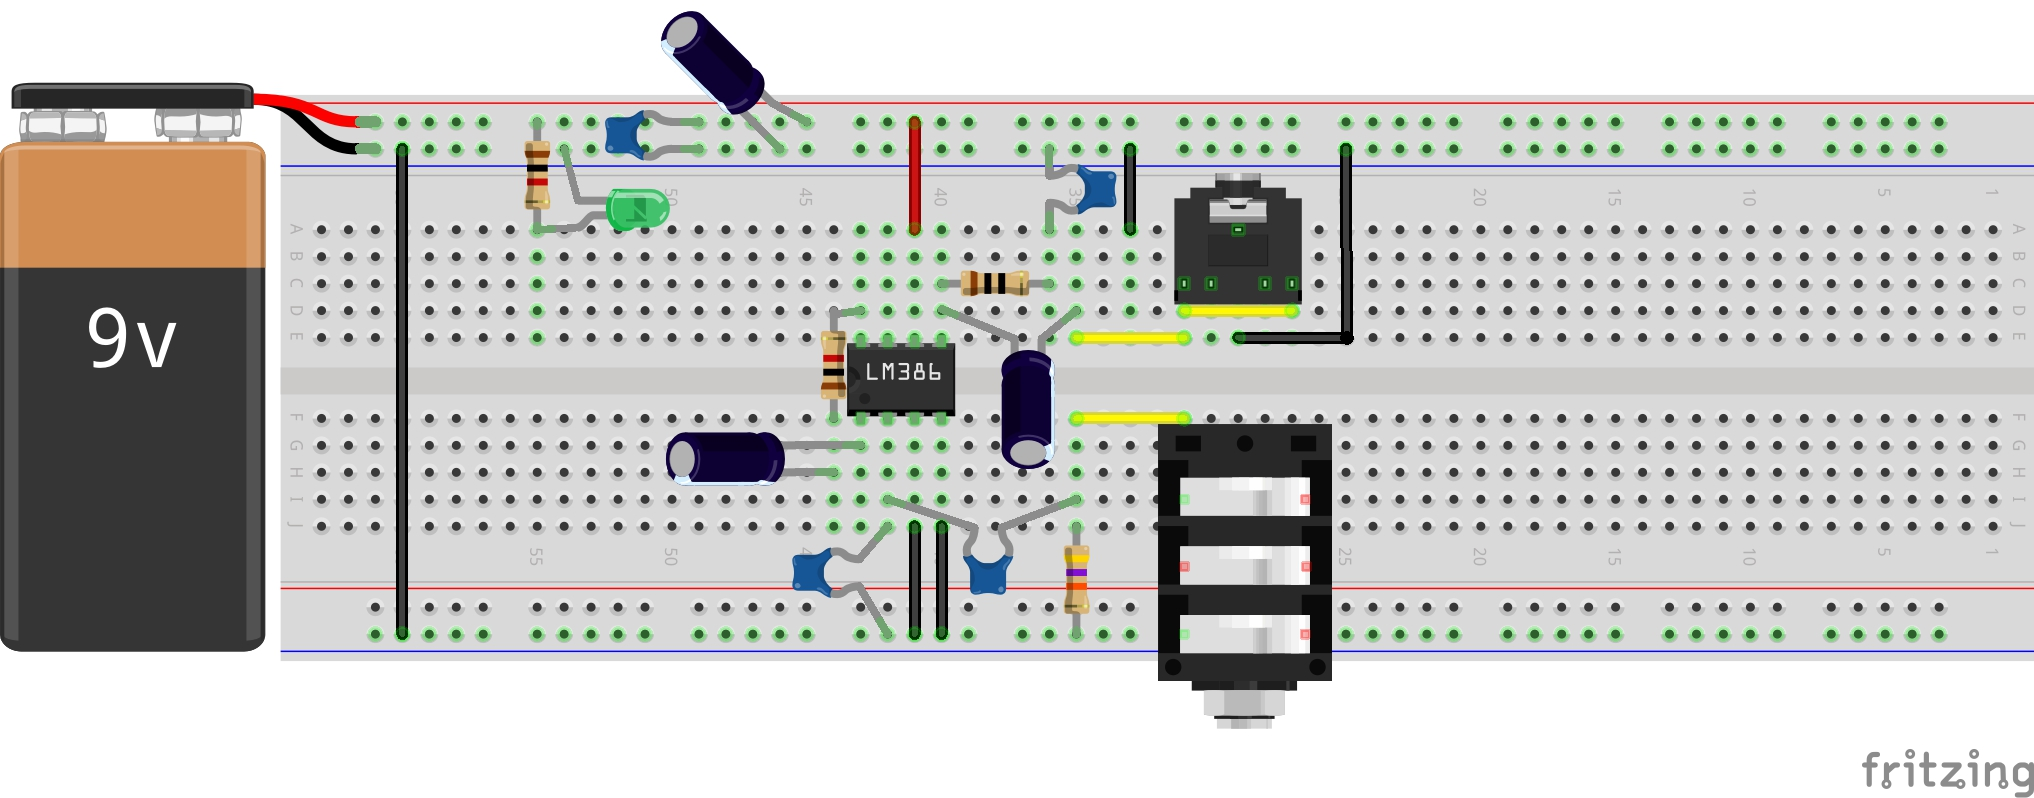
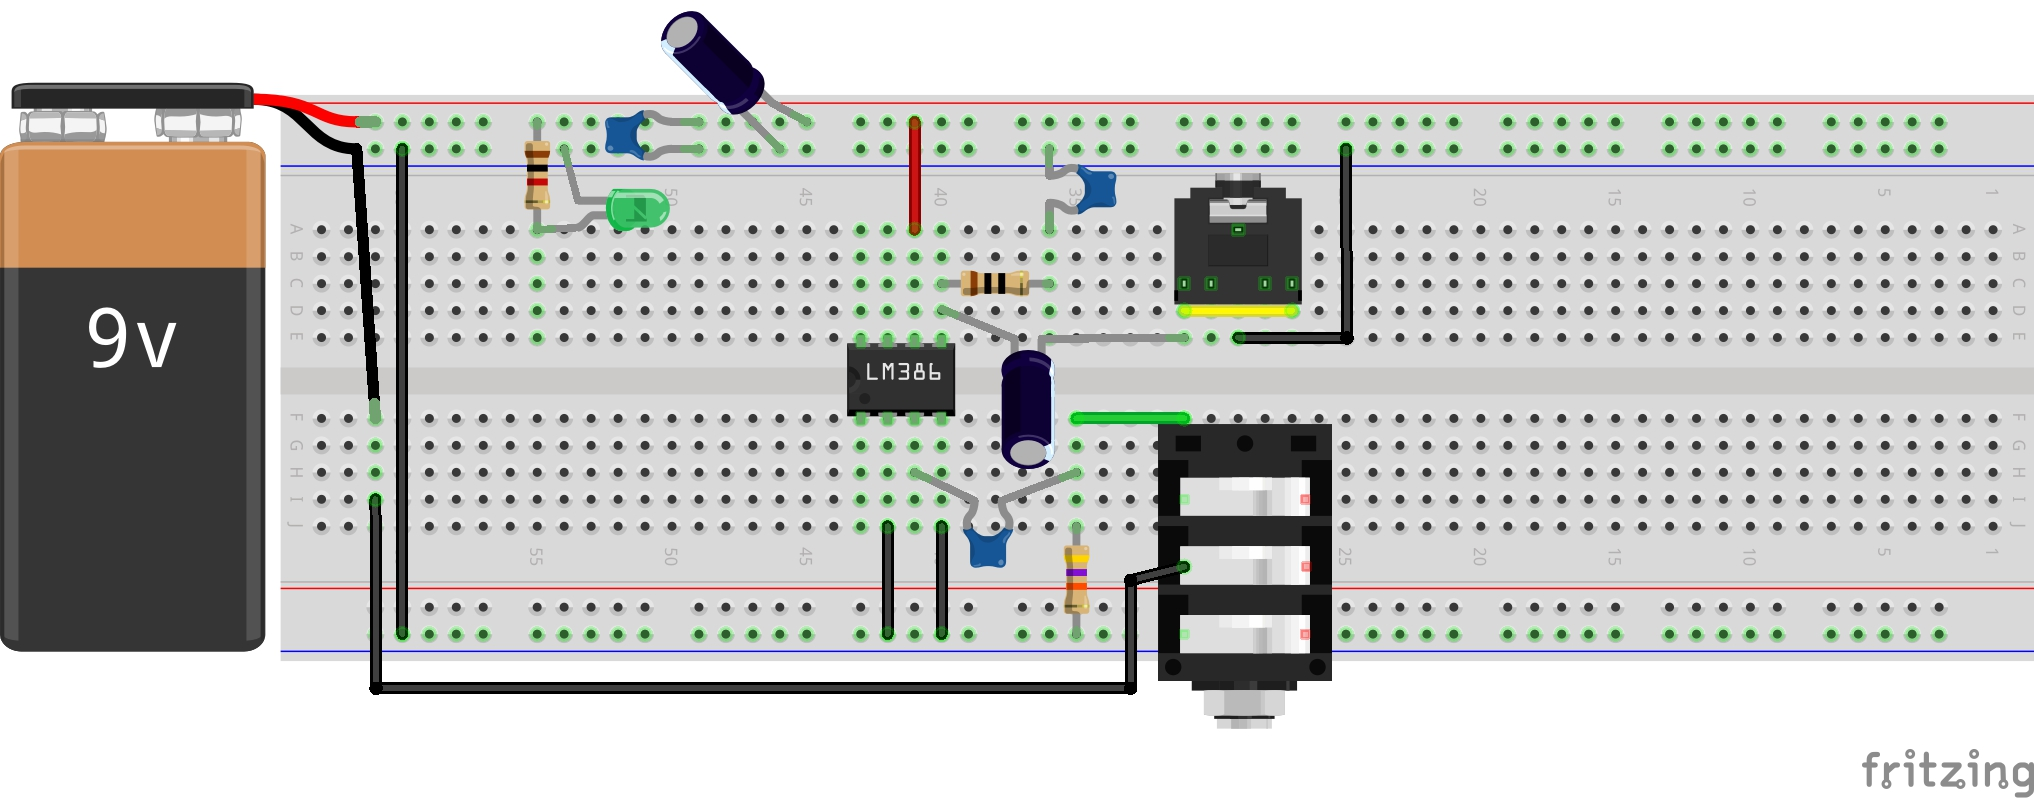
[GuitarHeadphoneAmp] update build

diff --git a/Electronics101/AudioAmps/GuitarHeadphoneAmp/README.md b/Electronics101/AudioAmps/GuitarHeadphoneAmp/README.md
@@ -2,19 +2,27 @@
 
 An LM386 fixed-gain guitar headphone amp.
 
+![GuitarHeadphoneAmp_protoboard](./assets/GuitarHeadphoneAmp_protoboard.jpg?raw=true)
+
 ## Notes
 
 Yet another LM386-based audio amplifier
 similar to the [LittleGem/A386/Smokey](../LittleGem) series,
 this time adapted as a guitar headphone amp.
 
-The main differences in this case:
-* gain is limited to 50x with pin 1 tied to 8 through R3 + C3.
-* R1 at input is appropriate match for guitar input impedence
+There are various "headphone amp" circuits based on the LM386.
+After trying many of the variations, I found that going back to basics performed just about the best
+(per the reference circuits in the datasheet).
+
+Features of the circuit:
+* default 20x gain (no extra components required)
+* simple capacitive-coupling with ~50k impedence matching for a guitar input
+* ring of the 3.5mm connector is used to switch power - use with a standard mono cable
+* mono output is sent to left and right channels of the headphone socket
 
 How it performs:
-* the lack of independent gain control is a bit limiting. i.e. the choice is quiet and clean, or load and overdriven.
-* on a breadboard, there's a bit of interference and noise in the mix. That would probably clean up quite a bit in a PCB build.
+* clean signal with a slight warm overdrive at maximum guitar ouput
+* performance can be a bit temperamental on a broadboard, but when I put it on a protoboard it performs quite well.
 
 ## Construction
 
@@ -24,10 +32,10 @@ How it performs:
 
 ![The Build](./assets/GuitarHeadphoneAmp_build.jpg?raw=true)
 
+![GuitarHeadphoneAmp_protoboard](./assets/GuitarHeadphoneAmp_protoboard.jpg?raw=true)
+
 ## Credits and References
+* [LM386 datasheet](http://www.futurlec.com/Linear/LM386N-3.shtml)
 * Based on "Project 07 - Guitar Headphone Amplifier" from [Beginning Analog Electronics through Projects](http://www.amazon.com/gp/product/0750672838/ref=as_li_tl?ie=UTF8&camp=1789&creative=390957&creativeASIN=0750672838&linkCode=as2&tag=itsaprli-20&linkId=QUZ3GKIDBEXGNSG7)
 * [my LittleGem/A386 build](../LittleGem)
 * [MXR™ Headphone Amp](http://www.generalguitargadgets.com/effects-projects/boosters/headphone-amp/) - circuit details of an alternative unit
-* [LM386 datasheet](http://www.futurlec.com/Linear/LM386N-3.shtml)
-
-
